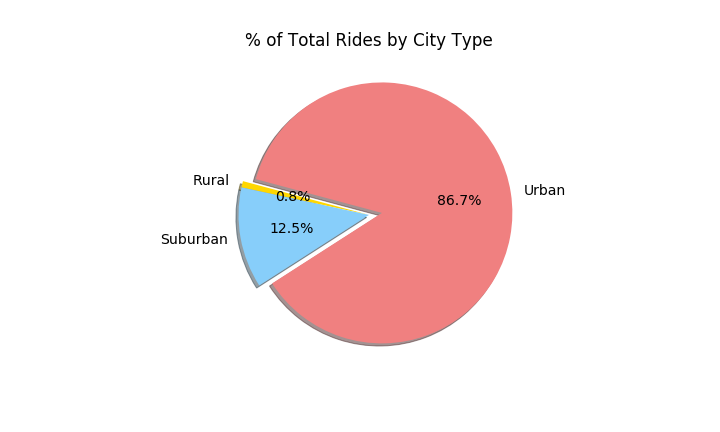
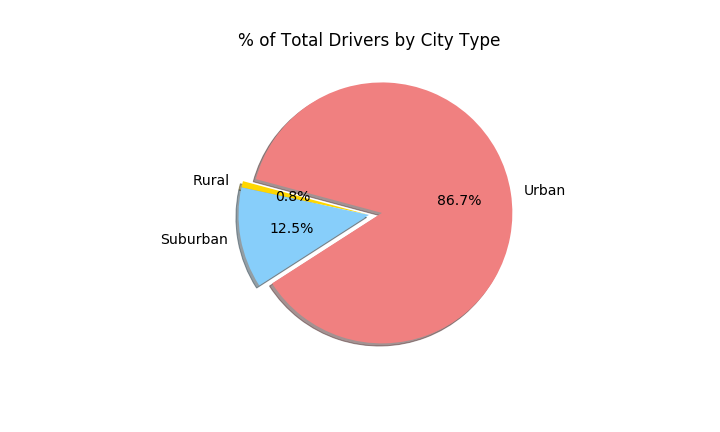
drivers pie chart

Changed region(s): [[0.3361, 0.0602, 0.7028, 0.1204]]

diff --git a/PyBer.py b/PyBer.py
@@ -426,7 +426,7 @@ driver_percents = 100 * pyber_data_df.groupby(["type"]).sum()["driver_count"] / 
 driver_percents
 
 # %%
-# Build percentage of rides by city type pie chart.
+# Build percentage of drivers by city type pie chart.
 plt.subplots(figsize=(10, 6))
 plt.pie(driver_percents,
     labels=["Rural", "Suburban", "Urban"],
@@ -434,7 +434,7 @@ plt.pie(driver_percents,
     explode=[0, 0, 0.1],
     autopct='%1.1f%%',
     shadow=True, startangle=165)
-plt.title("% of Total Rides by City Type")
+plt.title("% of Total Drivers by City Type")
 # Change the default font size from 10 to 14.
 mpl.rcParams['font.size'] = 14
 # Save Figure
